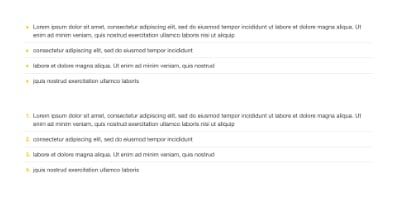
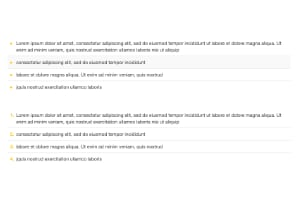
Fixes

diff --git a/InlineList3/widget.html b/InlineList3/widget.html
@@ -1,12 +1,10 @@
 <style>
 	.wi146 ul { list-style: none; padding: 0; }
 	.wi146 ul li { position: relative; padding: 8px 26px; border-bottom: 1px solid #e0e0e0; }
-	.wi146 ul li:hover { background-color: #f9f9f9; }
 	.wi146 ul li:last-child { border-bottom: none; }
 	.wi146 ul li:before { content: ''; width: 6px; height: 6px; border-radius: 50%; background-color: #808080; position: absolute; left: 8px; top: 16px; }
 
 	.wi146 ol { list-style: none; counter-reset: custom-counter; padding: 0; }
-	.wi146 ol li:hover { background-color: #f9f9f9; }
 	.wi146 ol li { position: relative; counter-increment: custom-counter; padding: 8px 26px; border-bottom: 1px solid #e0e0e0; }
 	.wi146 ol li:last-child { border-bottom: none; }
 	.wi146 ol li:before { content: counter(custom-counter) ". "; color: #808080; font-weight: bold; position: absolute; left: 8px; top: 8px; }
